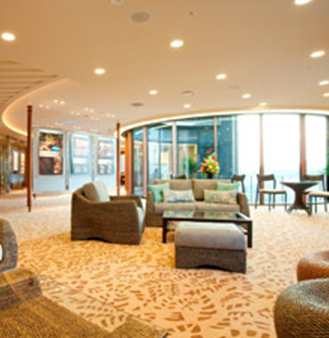
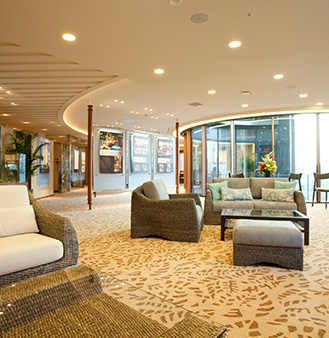
added some images

diff --git a/js/script.js b/js/script.js
@@ -48,7 +48,7 @@ $(document).ready(function() {
     document.getElementById("search").addEventListener("click", geoApiSearchByPostal);
     geoApiInitialize();
 
-    debugger;
+    // debugger;
             $('#Japan-tour-form, #exampleForm2')
                 .formValidation({
                     framework: 'bootstrap',
@@ -123,7 +123,7 @@ $(document).ready(function() {
                                 }
                             }
                         },
-                        /*'email': {
+                        'email': {
                             validators: {
                                 notEmpty: {
                                     message: 'Eメールアドレスを入力してください'
@@ -144,7 +144,7 @@ $(document).ready(function() {
                                     message: ''
                                 }
                             }
-                        },*/
+                        },
                         // tour location
                         '00N9000000EaMff': {
                             validators: {

diff --git a/css/default.css b/css/default.css
@@ -2132,7 +2132,7 @@ p.location i{
 	padding: 10px;
 }
 .resortpanel .inner {
-	border: 1px solid #ededed;
+	/*border: 1px solid #ededed;*/
 	-webkit-transition: all .2s ease-in-out;
     -moz-transition: all .2s ease-in-out;
     -ms-transition: all .2s ease-in-out;
@@ -2141,9 +2141,10 @@ p.location i{
 	min-height: 265px;
 	background-color: #443135;
 	background-color: rgba(68,49,53,0.92);
+	border-radius: 3px;
 }
 .resortpanel .inner:hover {
-	border-color: #ccc;
+	/*border-color: #ccc;*/
 	background-color: rgba(68,49,53,1);
 }
 .resortpanel .title {
@@ -2151,7 +2152,6 @@ p.location i{
 	font-size: 15px;
 	text-transform: uppercase;
 	padding: 0 2px;
-	letter-spacing: 0.5px;
 	margin: 0;
 	color: #fff;
 }
@@ -2166,9 +2166,15 @@ p.location i{
 .resortpanel .img-container {
 	margin-top: 0;	
 }
+
+.resortpanel .img-container img {
+	border-radius: 3px 3px 0 0;
+}
+
 .resortpanel .inner .details {
 	margin-left: 0px;
 	margin-right: 0px;	
+	padding-bottom: 5px;
 }
 .resortpanel .inner .btn-info {
 	font-family: 'Today';

diff --git a/vacation-packages/index.php b/vacation-packages/index.php
@@ -63,7 +63,7 @@
                   <h3 class="pink">オアフ島プラン</h3>
                   <p>2013年12月末にオープンした新タイムシェア専用リゾート「ホクラニ・ワイキキ」に滞在する「オアフ島スイートルーム・プラン」です。</p>
                   <p>選べるアクティビティ付き</p>
-                  <p><a href="<?php echo getHost(); ?>/vacation-packages/?index=oahu-pkgs" class="btn btn-pink">予約・お問い合わせ</a></p>
+                  <p><a href="<?php echo getHost(); ?>/vacation-packages/?index=oahu-pkgs" class="btn btn-pink">詳細</a></p>
                 </div>
               </div>
 
@@ -76,7 +76,7 @@
                   <h3 class="blue">ハワイ島プラン</h3>
                   <p>一度は訪れてみたい、ハワイ島ワイコロア・ビーチ・リゾート内「キングス･ランド」に滞在する「ハワイ島スイートルーム・プラン」です。</p>
                   <p>選べるアクティビティ付き</p>
-                  <p><a href="<?php echo getHost(); ?>/vacation-packages/?index=hawaii-pkgs" class="btn btn-primary">予約・お問い合わせ</a></p>
+                  <p><a href="<?php echo getHost(); ?>/vacation-packages/?index=hawaii-pkgs" class="btn btn-primary">詳細</a></p>
                 </div>
               </div>
 
@@ -89,7 +89,7 @@
                   <h3 class="green">Wアイランド・プラン</h3>
                   <p>オアフ島ワイキキ中心部に2013年12月末にオープンした「ホクラニ・ワイキキ」と、ハワイ島ワイコロア・ビーチ・リゾート内「キングス・ランド」に滞在いただける欲張りプラン。両方の島を満喫できるお得なプランです。</p>
                   <p>選べるアクティビティ付き</p>
-                  <p><a href="<?php echo getHost(); ?>/vacation-packages/?index=wisland-pkgs" class="btn btn-green">予約・お問い合わせ</a></p>
+                  <p><a href="<?php echo getHost(); ?>/vacation-packages/?index=wisland-pkgs" class="btn btn-green">詳細</a></p>
                 </div>
               </div>
 

diff --git a/sales-preview/index.php b/sales-preview/index.php
@@ -118,7 +118,7 @@
             <div class="row block">
               <div class="col-sm-4 text-center">
                 <img src="img/1-sales-center.jpg" class="mobile-hide" style="display: inline;">
-                <img src="http://placehold.it/767x300" class="mobile-show">
+                <img src="img/1-sales-center-lg.jpg" class="mobile-show">
               </div>
               <div class="col-sm-8">
                 <h3>STEP 1 : ご予約いただいた会場にご来場</h3>
@@ -130,7 +130,7 @@
             <div class="row block">
               <div class="col-sm-4 text-center">
                 <img src="img/2-sales-center.jpg" class="mobile-hide" style="display: inline;">
-                <img src="http://placehold.it/767x300" class="mobile-show">
+                <img src="img/2-sales-center-lg.jpg" class="mobile-show">
               </div>
               <div class="col-sm-8">
                 <h3>STEP 2 : 専用スタッフのご紹介</h3>
@@ -154,7 +154,7 @@
             <div class="row block">
               <div class="col-sm-4 text-center">
                 <img src="img/4-sales-center.jpg" class="mobile-hide" style="display: inline;">
-                <img src="http://placehold.it/767x300" class="mobile-show">
+                <img src="img/4-sales-center-lg.jpg" class="mobile-show">
               </div>
               <div class="col-sm-8">
                 <h3>STEP 4 : 終了</h3>
